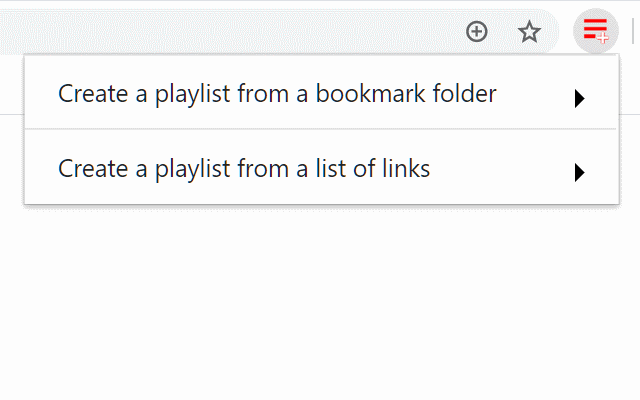
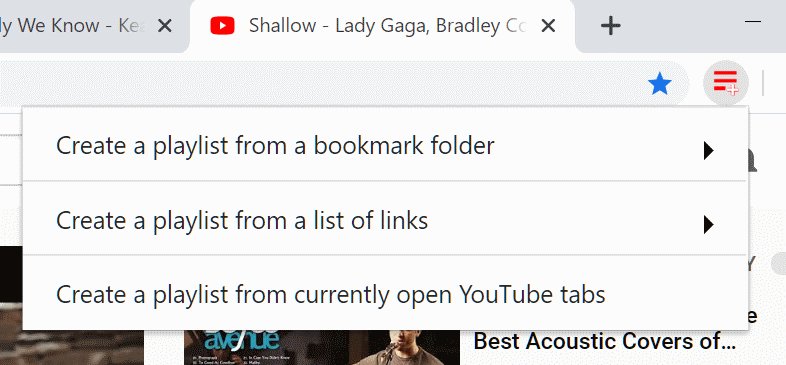
v1.2.0: Create a playlist from currently open YouTube tabs

diff --git a/src/popup/popup.js b/src/popup/popup.js
@@ -61,8 +61,8 @@ getById("from-current-tabs").onclick = async () => {
     /** @type {string[]} */
     // @ts-ignore
     const videoIds = tabs.map((tab) => parseYoutubeId(tab.url));
-    await createPlaylist(videoIds);
     closeTabs(tabs);
+    await createPlaylist(videoIds);
   } else {
     alert("There are no open YouTube tabs in the current window");
   }
@@ -223,7 +223,6 @@ async function createPlaylist(videoIds) {
       );
     }
   }
-  closeExtensionPopup();
   return browser.tabs.create({ url });
 }
 
@@ -252,18 +251,9 @@ function queryAll(selector) {
  */
 async function alert(message) {
   browser.notifications.create({
-    // @ts-ignore
     type: "basic",
-    title: `YouTube Playlist Helper`,
+    title: `YouTube Playlist Helper: Error`,
     message: message,
+    iconUrl: "../icons/icon_48.png",
   });
-}
-
-function closeExtensionPopup() {
-  setTimeout(() => {
-    const window = browser.extension.getViews({ type: "popup" }).shift();
-    if (window) {
-      window.close();
-    }
-  }, 200);
 }

diff --git a/src/popup/popup.css b/src/popup/popup.css
@@ -13,8 +13,8 @@ body {
 
 #urlsTextarea {
   min-height: 250px;
-  min-width:335px;
-  width:100%;
+  min-width: 335px;
+  width: 100%;
   resize: none;
   white-space: pre;
   overflow-wrap: normal;
@@ -31,7 +31,7 @@ body {
 }
 
 .menu-item {
-  min-width: 20rem;
+  min-width: 25rem;
   padding: 0.75rem 1.25rem;
   border-top: 1px solid rgba(0, 0, 0, 0.125);
   text-align: left;
